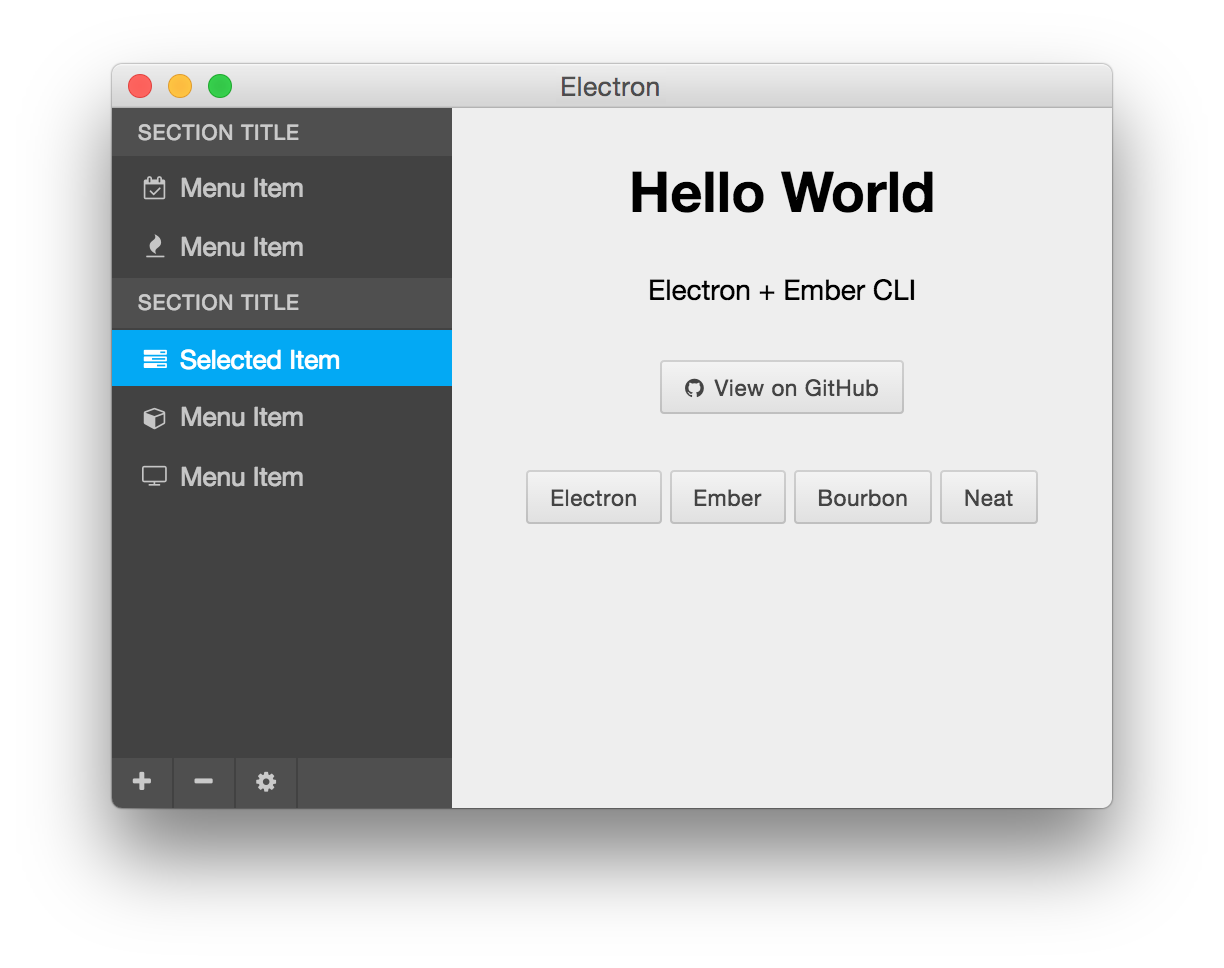
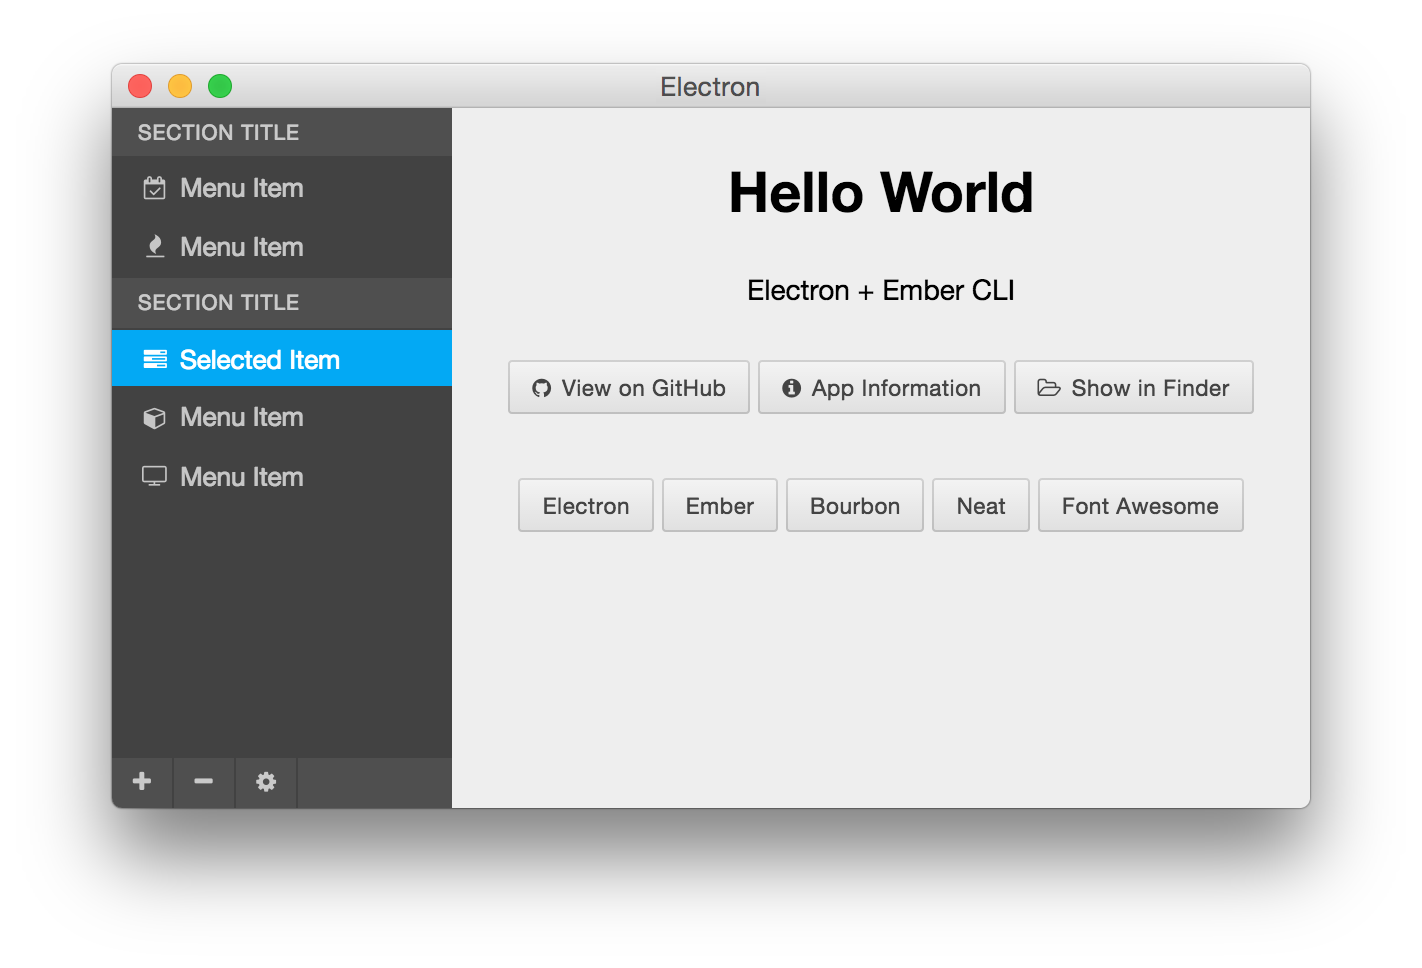
Add examples of accessing Electron remote and app modules

diff --git a/app/controllers/index.js b/app/controllers/index.js
@@ -1,10 +1,25 @@
 import Ember from 'ember';
 var shell = requireNode('shell');
+var remote = requireNode('remote');
+var app = remote.require('app');
 
 export default Ember.Controller.extend({
   actions: {
+    getVersion: function() {
+      var info = 'App Name: ' + app.getName();
+      info += '\n\nApp Version: ' + app.getVersion();
+      info += '\n\nEnvironment: ' + process.env.ELECTRON_ENV;
+      info += '\n\nApp Path: ' + app.getAppPath();
+      info += '\n\nData Path: ' + app.getDataPath();
+      alert(info);
+    },
+
     openUrl: function(url) {
       shell.openExternal(url);
+    },
+
+    showInFinder: function() {
+      shell.showItemInFolder(app.getAppPath());
     }
   }
 });

diff --git a/app/app.js b/app/app.js
@@ -7,10 +7,10 @@ var App;
 
 Ember.MODEL_FACTORY_INJECTIONS = true;
 
-App = Ember.Application.extend({
-  modulePrefix: config.modulePrefix,
+var App = Ember.Application.extend({
+  modulePrefix:    config.modulePrefix,
   podModulePrefix: config.podModulePrefix,
-  Resolver: Resolver
+  Resolver:        Resolver
 });
 
 loadInitializers(App, config.modulePrefix);

diff --git a/config/environment.js b/config/environment.js
@@ -27,7 +27,8 @@ module.exports = function(environment) {
     'font-src': "'self' fonts.gstatic.com",
     'img-src': "'self' data:",
     'media-src': "'self'",
-    'script-src': "'self' 'unsafe-inline'"
+    'script-src': "'self' 'unsafe-inline'",
+    'style-src': "'self' 'unsafe-inline'"
   };
 
   if (environment === 'development') {

diff --git a/app/styles/mixins/button.scss b/app/styles/mixins/button.scss
@@ -9,6 +9,7 @@
   font-size: 11px;
   height: 27px;
   line-height: 26px;
+  margin-bottom: 4px;
   outline: none;
   padding: 1px 12px;
   text-align: center;
